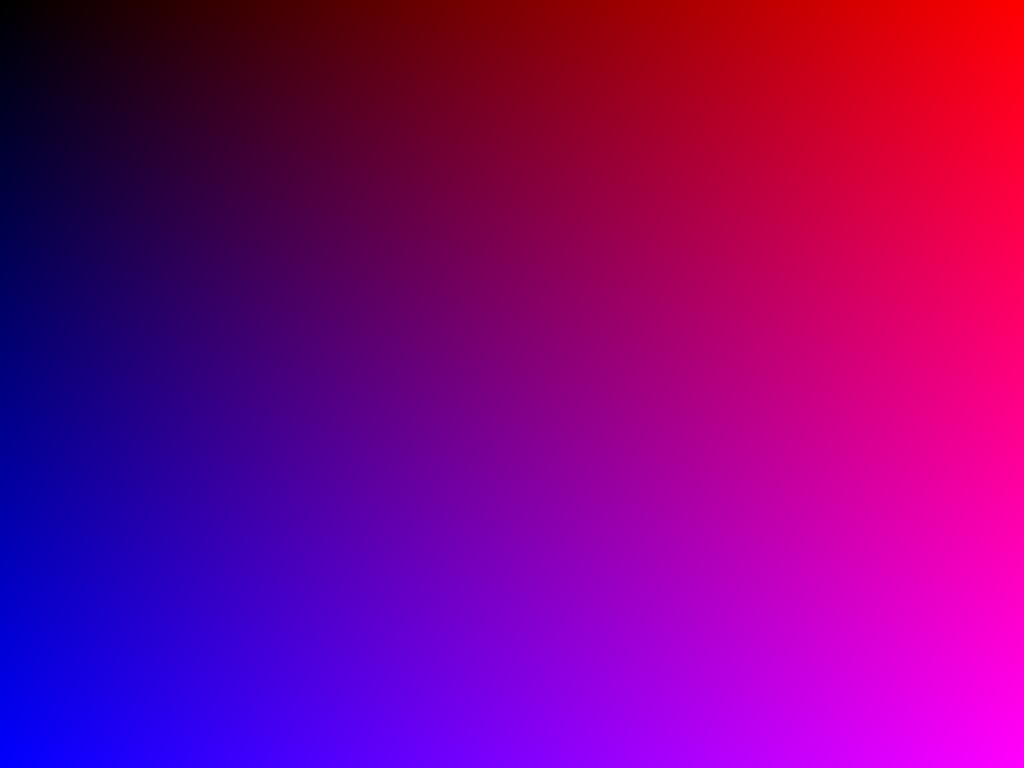
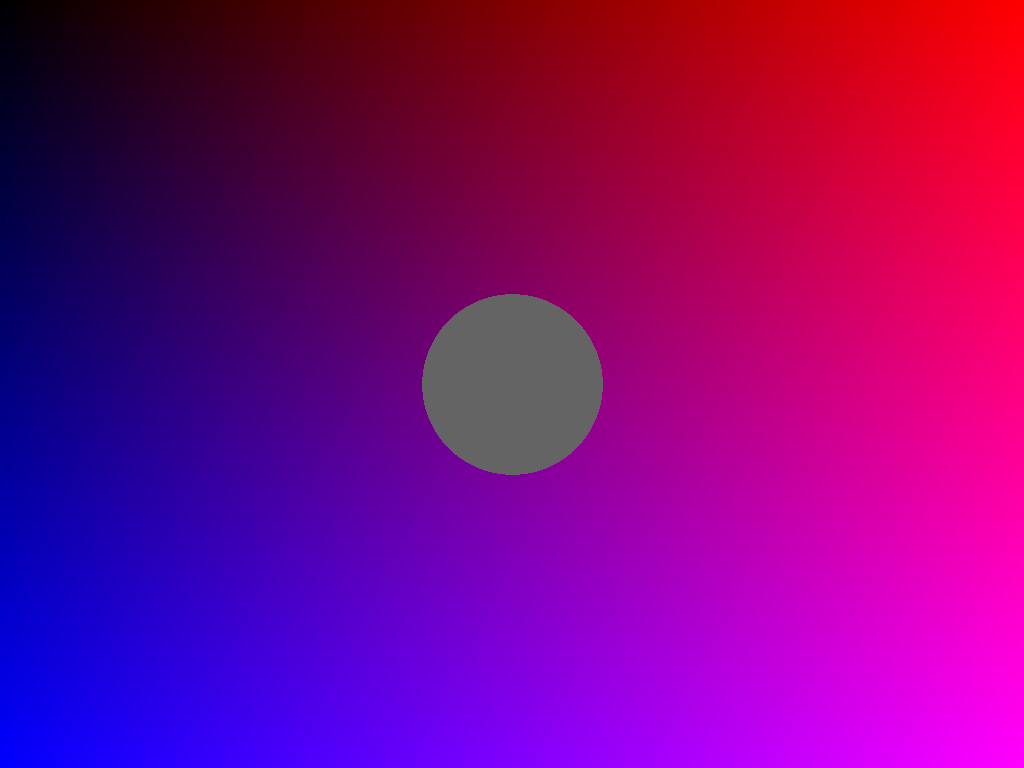
Introduce 3d camera logic
Now i can cast rays from 3d camera into the 3d world to check if they bounce off of anything

Changed region(s): [[0.4062, 0.375, 0.5938, 0.625]]

diff --git a/src/main.rs b/src/main.rs
@@ -36,17 +36,58 @@ fn draw(buffer: &mut Buffer) {
         }
     }
 
-    //testing ground
-    println!(
-        "dot product is {}",
-        Vec3::new(1.0, 1.0, 2.0).dot_product(&Vec3::new(2.0, 2.0, 3.0))
-    );
+    // camera is set up so that it looks in (0,0,-1) direction
+    // with the virtual screen being always one unit away from camera.
+    let horizontal_fov = 90.0;
+    let vertical_fov =
+        f32::atan(HEIGHT as f32 * f32::tan(f32::to_radians(horizontal_fov / 2.0)) / WIDTH as f32)
+            .to_degrees()
+            * 2.0;
 
-    println!(
-        "vector and scalar product {:?}",
-        Vec3::new(1.0, 2.0, -3.0).multiply(3.0)
-    );
+    // virtual screen size in world coordinates
+    let in_world_screen_width = 2.0 * f32::tan(f32::to_radians(horizontal_fov / 2.0));
+    let in_world_screen_height = 2.0 * f32::tan(f32::to_radians(vertical_fov / 2.0));
 
-    println!("magnitude is {}", Vec3::new(2.0, 0.0, 0.0).magnitude());
-    println!("normalized {:?}", Vec3::new(2.0, 2.0, 0.0).normalize());
+    // size of a pixel in the output translated to world coordinates
+    let in_world_pixel_x_offset = Vec3::new(in_world_screen_width / (WIDTH as f32), 0.0, 0.0);
+    let in_world_pixel_y_offset = Vec3::new(0.0, -in_world_screen_height / (HEIGHT as f32), 0.0);
+
+    let camera_position = Vec3::new(0.0, 1.0, 0.0);
+
+    // where the camera looking at
+    let forward_vector = Vec3::new(0.0, 0.0, -1.0);
+
+    // top left of the virtual screen
+    let in_world_top_left = camera_position.clone().add(&Vec3::new(
+        -in_world_screen_width / 2.0,
+        in_world_screen_height / 2.0,
+        -1.0,
+    ));
+
+    for x in 0..WIDTH {
+        for y in 0..HEIGHT {
+            // mapping between the pixel on the png and the vector looking at its representation
+            // on the virtual screen from the pov of the camera
+            let camera_to_pixel_direction = in_world_pixel_x_offset
+                .clone()
+                .multiply(x as f32)
+                .add(&in_world_pixel_y_offset.clone().multiply(y as f32))
+                .add(&in_world_top_left)
+                .add(&camera_position.clone().multiply(-1.0))
+                .normalize();
+
+            let angle = f32::acos(
+                forward_vector.dot_product(&camera_to_pixel_direction)
+                    / (forward_vector.magnitude() * camera_to_pixel_direction.magnitude()),
+            )
+            .to_degrees();
+
+            if angle < 10.0 {
+                // drawing the circle that is the intersection of all vertices comming from the
+                // camera that form angle less than 10 degrees with the camera view direction and
+                // the virtual screen plane
+                buffer.set(Point(x, y), Rgb(100, 100, 100));
+            }
+        }
+    }
 }

diff --git a/src/vector_math.rs b/src/vector_math.rs
@@ -1,4 +1,4 @@
-#[derive(Debug)]
+#[derive(Debug, Clone)]
 pub struct Vec3 {
     values: [f32; 3],
 }
@@ -6,6 +6,14 @@ pub struct Vec3 {
 impl Vec3 {
     pub fn new(x: f32, y: f32, z: f32) -> Vec3 {
         Vec3 { values: [x, y, z] }
+    }
+
+    pub fn add(self, v2: &Vec3) -> Vec3 {
+        let mut new_values = [0.0; 3];
+        for (idx, (v1_i, v2_i)) in self.values.iter().zip(v2.values).enumerate() {
+            new_values[idx] = v1_i + v2_i;
+        }
+        Vec3 { values: new_values }
     }
 
     pub fn dot_product(&self, v2: &Vec3) -> f32 {
